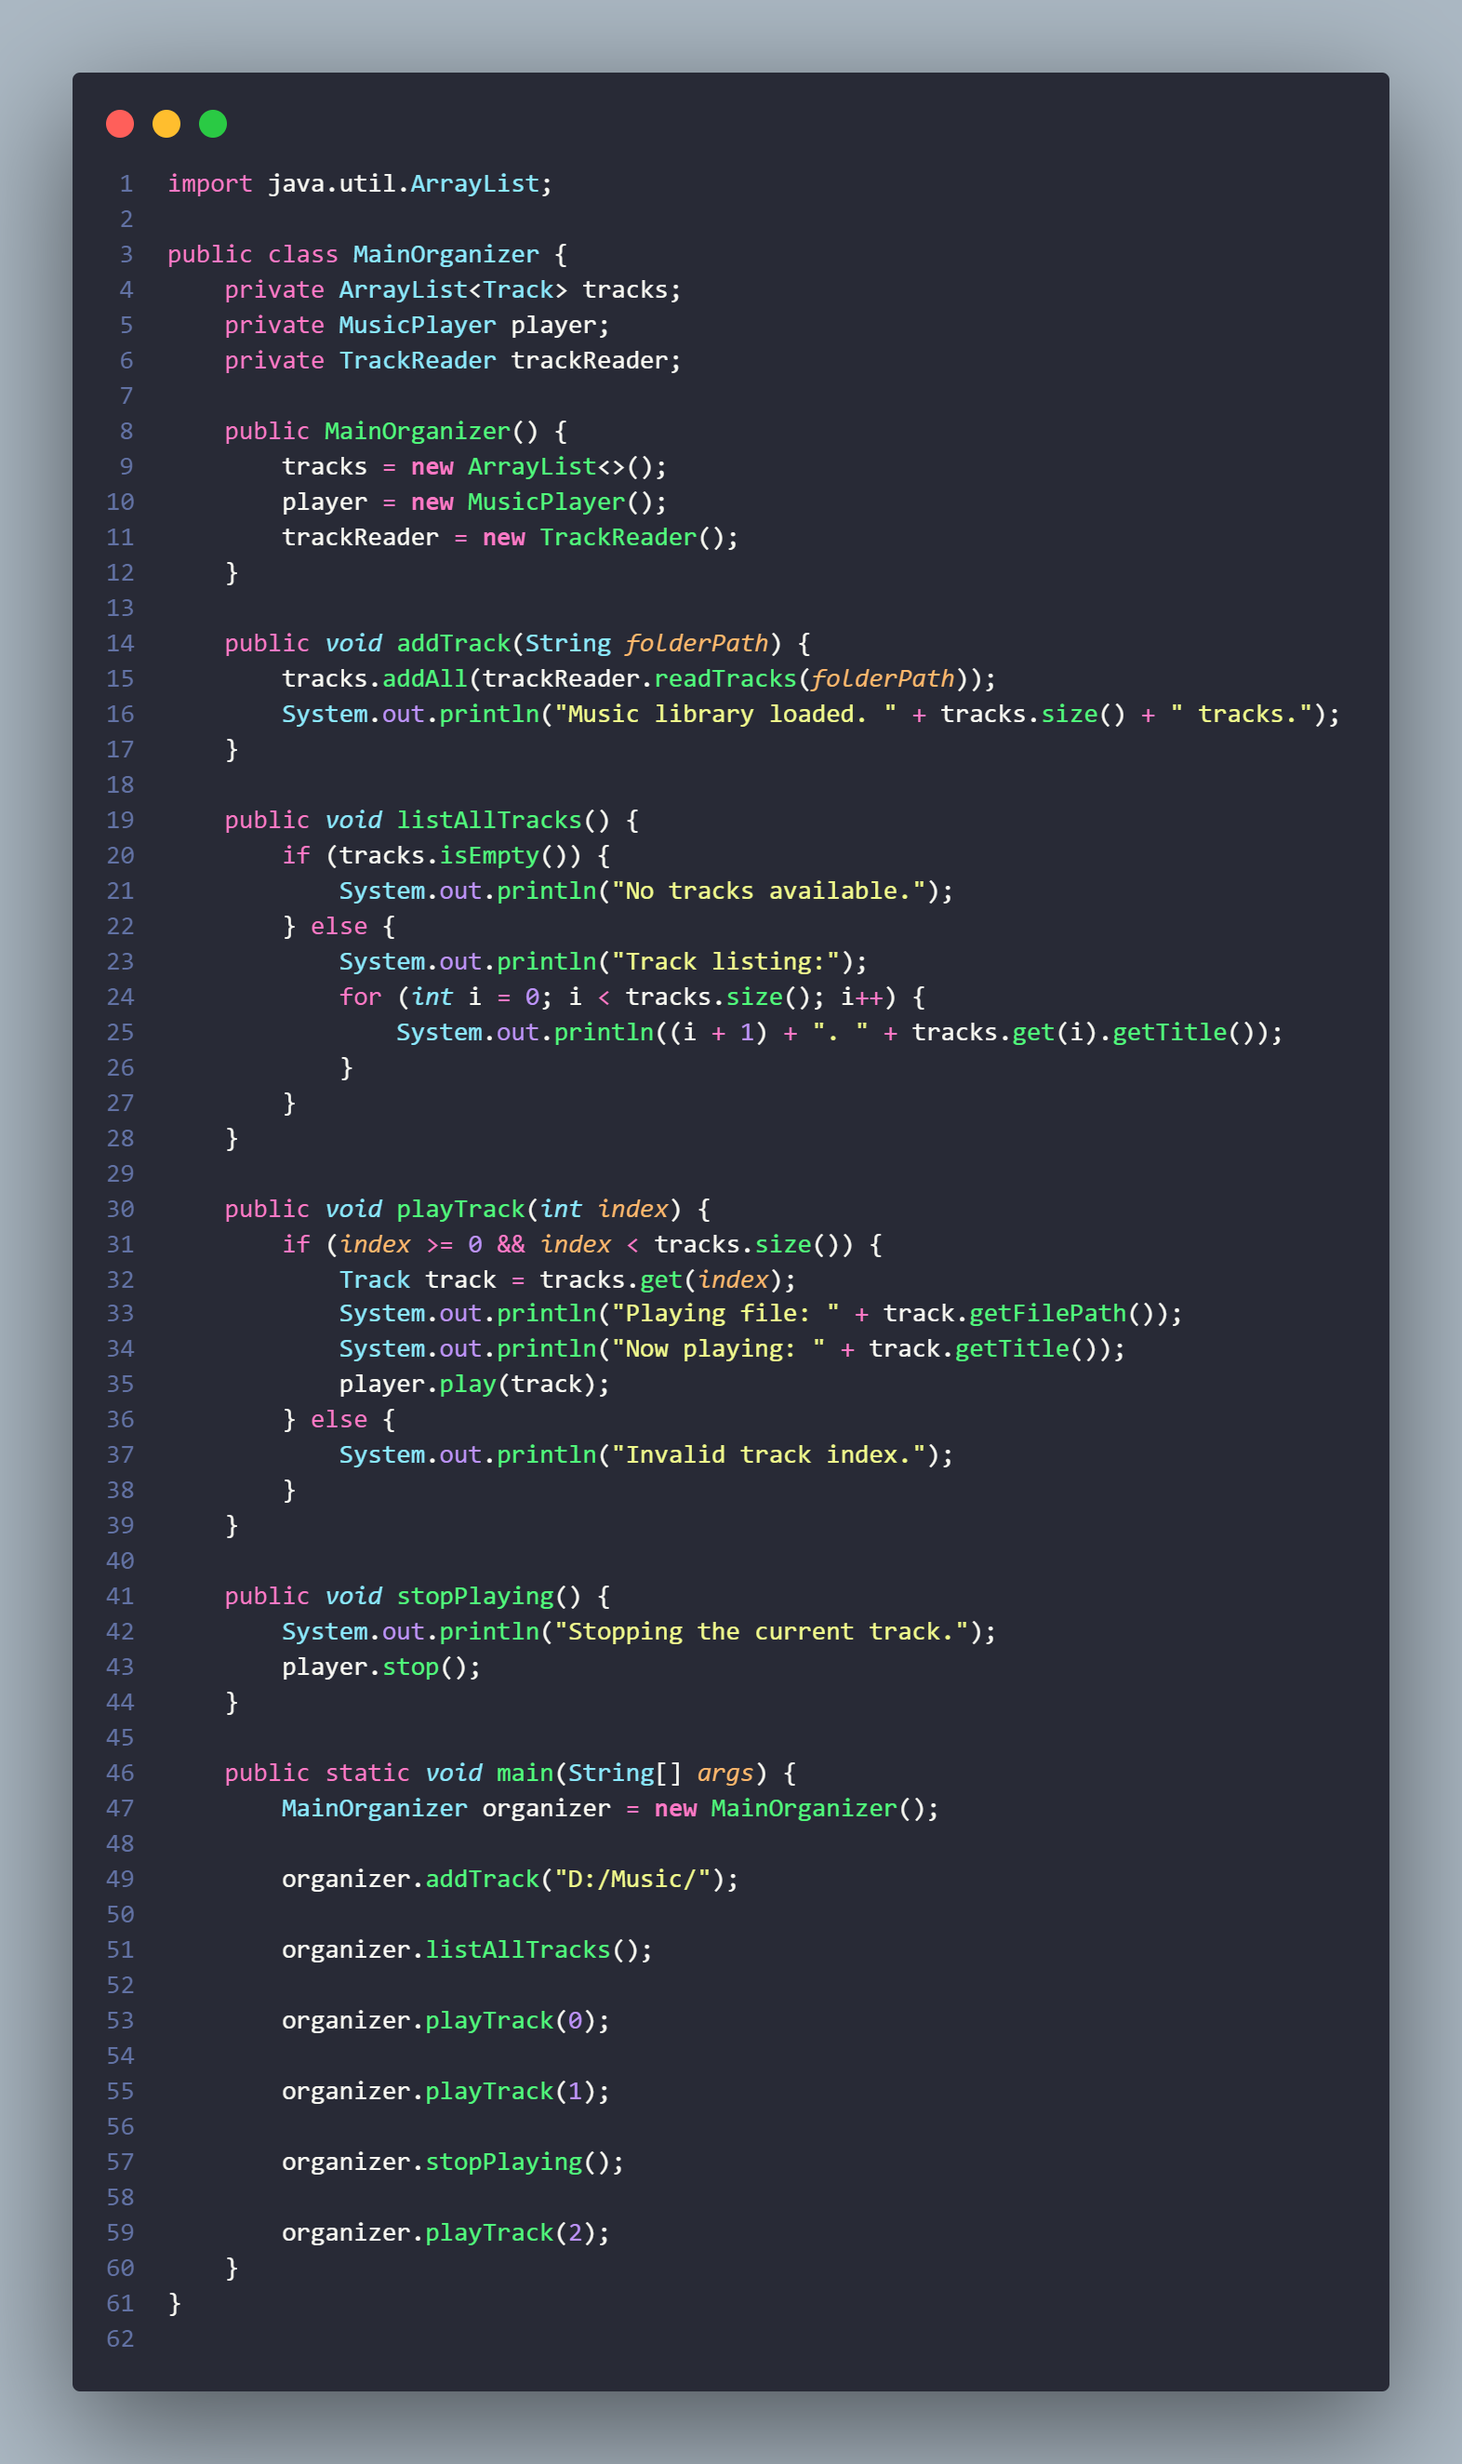
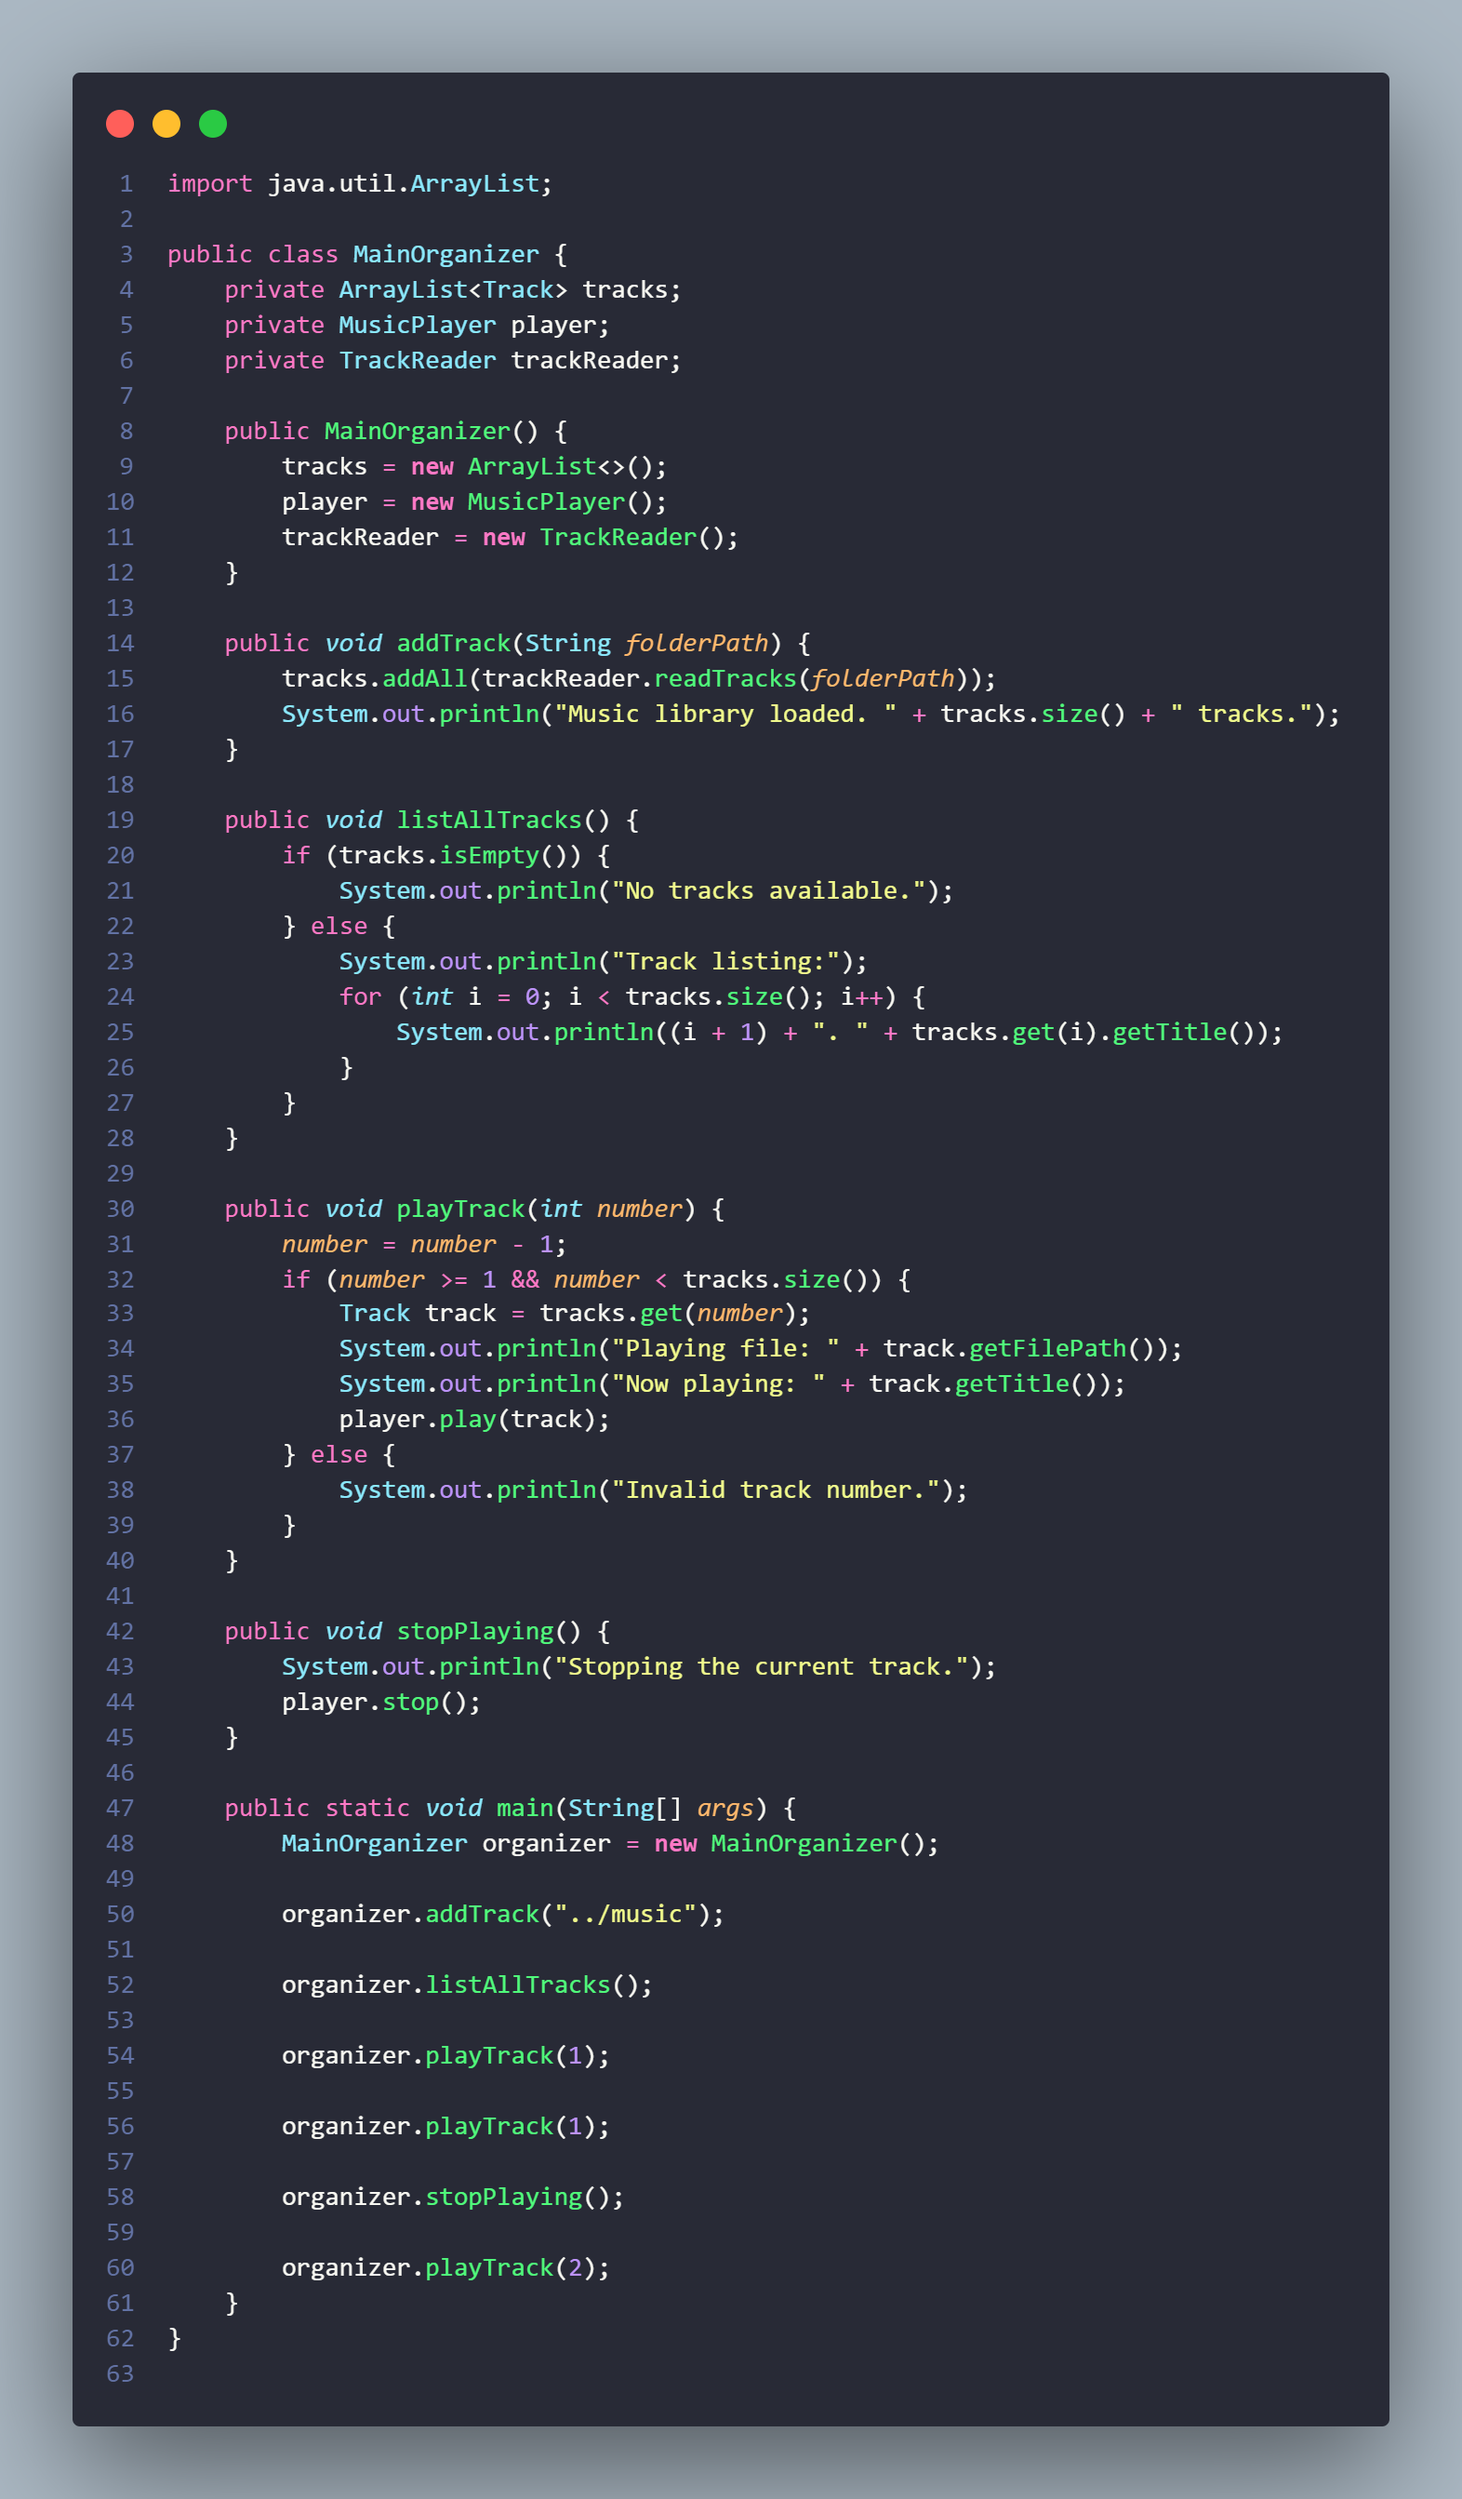
Finish

diff --git a/README.md b/README.md
@@ -86,11 +86,48 @@ Berfungsi untuk memberhentikan lagu yang saat ini sedang berjalan. Pertama dilak
 
 ### **Fungsi**
 
-
+Berfungsi sebagai kelas yang menjalankan keseluruhan sistem pada music organizer.
 
 ### **Atribut**
 
+**tracks** 
 
+Merupakan representasi dari tempat penyimpanan lagu dari program yang menggunakan tipe data `ArrayList<Track>`.
+
+**player** 
+
+Variabel yang akan digunakan sebagai pemutar lagu dengan tipe data `MusicPlayer`.
+
+**trackReader**
+
+Variabel yang akan digunakan sebagai track reader dengan tipe data `TrackReader`.
 
 ### **Method**
 
+**constructor**
+
+Berfungsi untuk menginisiasi setiap atribut-atribut pada kelas dengan objek baru sesuai tipe datanya masing-masing.
+
+**addTrack**
+
+Berfungsi untuk meload lagu pada direktori dengan `folderPath` sesuai input parameter dan akan memanggil method `readTracks` pada `trackReader` dan hasilnya akan dimasukkan ke variabel `track` yang merupakan `ArrayList`.
+
+**listAllTrack**
+
+Berfungsi untuk menampilkan list lagu yang sudah di load. Pertama fungsi akan mengecek apakah sudah terdapat lagu yang di load, jika belum akan menampilkan pesan error `No tracks available.` dan jika sudah ada maka akan menampilkan setiap judul lagu yang tersimpan yang didapat dari pemanggilan method `getTitle` pada setiap objek pada `tracks` beserta sistem penomoran yang benar.
+
+**playTrack**
+
+Berfungsi untuk menjalankan lagu sesuai nomor yang diinputkan. Pertama kita akan melakukan `decrement` satu kali pada `number`, karena `ArrayList` indeksnya dimulai dari 0. Kita melakukan `decrement` karena penyetelan lagu bisa dilakukan sesuai dengan penomoran yang ditampilkan. Lalu dilakukan pengecekan apakah nomor yang dimasukkan sesuai dengan penomoran, jika tidak akan menampilkan pesan error `Invalid track number.` dan jika sesuai makan akan menjalankan lagu sesuai nomor yang diinputkan dengan memanggil method `play` pada `player`. 
+
+**stopPlaying**
+
+Berfungsi untuk berhenti menjalankan suatu lagu dengan memanggil method `stop` dari `player`.
+
+**main**
+
+Merupakan method utama yang akan menjalankan keseluruhan program. Pertama disini kita akan menginisiasi variabel `organizer` yang akan menyimpan objek dari kelas `MainOrganizer`. Lalu untuk menjalankan sistem, kita akan memanggil beberapa method pada objek `organizer`.
+
+## **Hsil**
+
+![result](Resources/screenshot/result.png)
